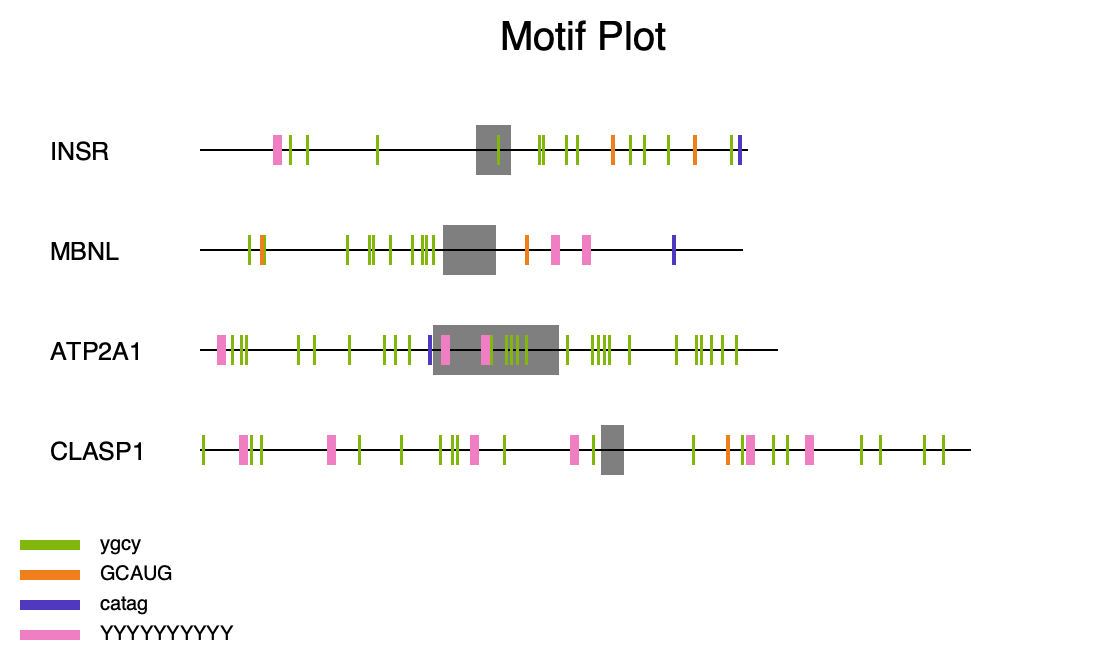
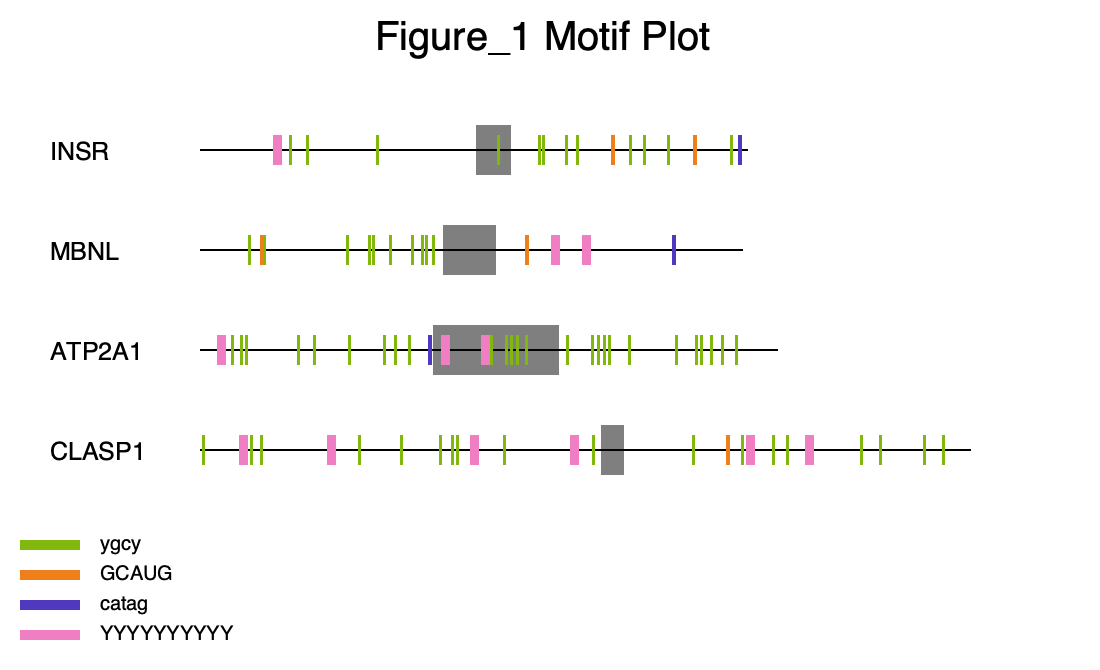
added additional comments to script

Changed region(s): [[0.34, 0.0299, 0.6491, 0.0896]]

diff --git a/motif-mark-oop.py b/motif-mark-oop.py
@@ -21,24 +21,24 @@ args = parse_args()
 
 
 def get_colors(motifs): 
-    '''This function will be used to create a rgb color code for each motif sequence. It will add 1 to 
-    one of the rgb values each iteration. This will ensure each motif has a unique color. '''
+    '''This function will be used to create a random rgb color code for each motif sequence.'''
     colors = dict()
     random.seed(5)
     for motif in motifs:
         while True:
-            # Generate random RGB values between 0 and 255
+            # Generate random RGB values between 0 and 255 and convert to decimal
             r = random.randint(0, 255) / 255
             g = random.randint(0, 255) / 255
             b = random.randint(0, 255) / 255
             
-            # Ensure the color is not white (1, 1, 1) or black (0, 0, 0)
+            # Ensure the color is not pure white (1, 1, 1) or pure black (0, 0, 0)
             if (r, g, b) != (1, 1, 1) and (r, g, b) != (0, 0, 0):
                 break
         
         # Add the RGB values to the dictionary
         colors[motif] = [r, g, b]
     return colors
+
 
 
 list_motifs = []
@@ -49,6 +49,8 @@ with open(args.m, mode ="r") as motif_file:
         motif_seq = line.strip()
         list_motifs.append(motif_seq)
 
+
+# Create the rgb value for each motif
 dict_of_motif_color = get_colors(list_motifs)
 
 
@@ -82,6 +84,7 @@ def convert_regex(motif_seq):
         # Look up the corresponding IUPAC regex pattern
         regex += IUPAC_REGEX.get(char)
     return regex
+
 
 
 # Inititalize a dictionary holding motif sequences as keys and regex expressions as values
@@ -163,9 +166,11 @@ class exon:
         self.name = name
 
     def draw(self, context, rank):
+        # Draw exon
         context.set_source_rgba(0,0,0, 0.5) 
         context.rectangle(self.start+200,rank -25,self.stop-self.start,50)
         context.fill()
+        # Add gene name text next to gene
         context.set_source_rgba(0, 0, 0, 1)
         context.set_font_size(25) 
         context.move_to(50, rank+10)
@@ -212,8 +217,9 @@ oneline_fasta(args.f, "oneline.fa")
 
 
 
-rank = 0
-list_of_geneGroups = []
+rank = 0 # The gene number in the fasta record
+list_of_geneGroups = []  # Holds all GeneGroup objects created
+
 # read through fasta file and do everything
 with open("oneline.fa", mode = "r") as fasta:
     for line in fasta:
@@ -225,17 +231,19 @@ with open("oneline.fa", mode = "r") as fasta:
         # read header line to get gene name
         if line.startswith(">"):
             name = line.split('\t')[0] 
-            name = name.split('>')[1] # pull out gene name
-            name = name.split(' ')[0] 
+            name = name.split('>')[1] 
+            name = name.split(' ')[0] # pull out gene name
 
         # read each fasta record
         else:
             record = line
+
+            # Increase rank with each record being processed
             rank += 1
+
             # define the start and stop of the gene and create gene object
             stop = len(record)
             current_Gene = gene(0, stop)
-
 
             # Loop through the string to find the first and last uppercase characters
             for i, char in enumerate(record):
@@ -270,7 +278,7 @@ filename = args.f
 filename = filename.split(".")[0]
 
 # Define the pycairo surface to draw on.
-# Adjust width based on the fact seqs < 1000
+# Adjust width based on the fact seqs < 1000, height is sclaed by number of GeneGroups and motif sequences
 width, height = 1100, (len(list_of_geneGroups)*100) + 150 + (len(list_motifs) * 30)
 #create the coordinates to display your graphic, desginate output
 surface = cairo.ImageSurface(cairo.FORMAT_ARGB32,width, height)
@@ -280,11 +288,11 @@ context.set_source_rgb(1, 1, 1)  # RGB values for white surface
 context.rectangle(0, 0, width, height)
 context.fill()
 
-  # draw plot title
+# draw plot title
 context.set_source_rgba(0, 0, 0, 1)
 context.set_font_size(40) 
-context.move_to(500, 50)
-context.show_text("Motif Plot") 
+context.move_to(375, 50)
+context.show_text(f"{filename} Motif Plot") 
 
 # draw all genes and names
 for GeneGroup in list_of_geneGroups:
@@ -298,16 +306,13 @@ for i, m in enumerate(dict_of_motif_color):
     context.set_font_size(20) 
     context.move_to(100, i*30 + len(list_of_geneGroups)*100 + 150)
     context.show_text(f"{m}")
-
+    # Colored line for each motif
     color = dict_of_motif_color[m]
     context.set_source_rgb(color[0],color[1],color[2])  
     context.set_line_width(10)
     context.move_to(20, i*30 + (len(list_of_geneGroups)*100) + 145)  #(x,y)
     context.line_to(80,i*30 + (len(list_of_geneGroups)*100) + 145)
     context.stroke()
-
-
-
 
 
 
